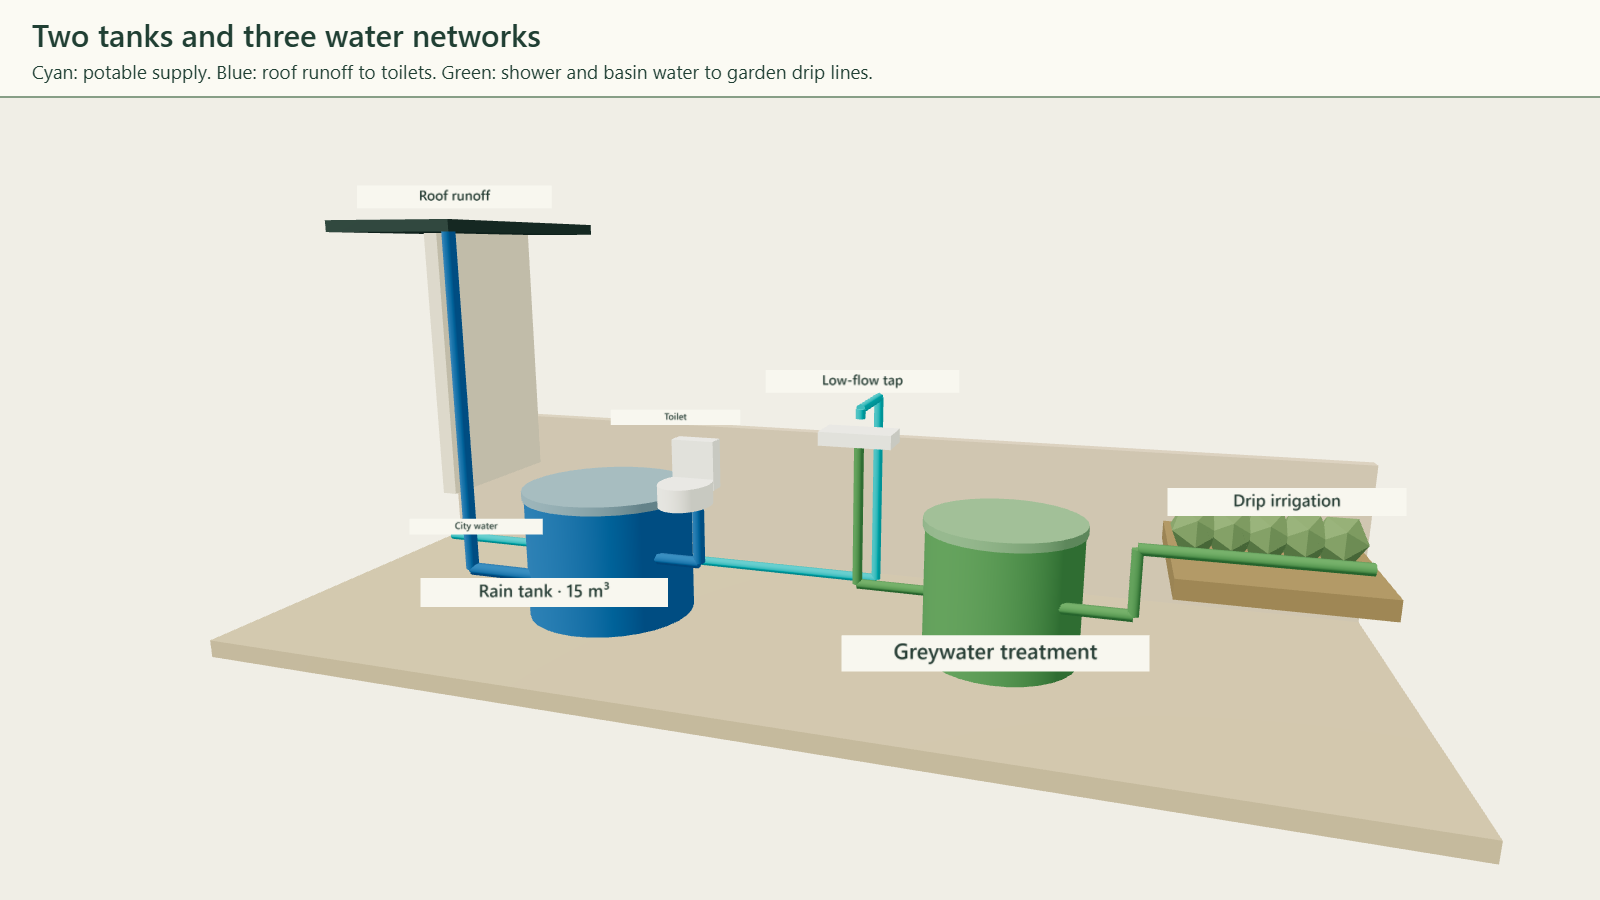
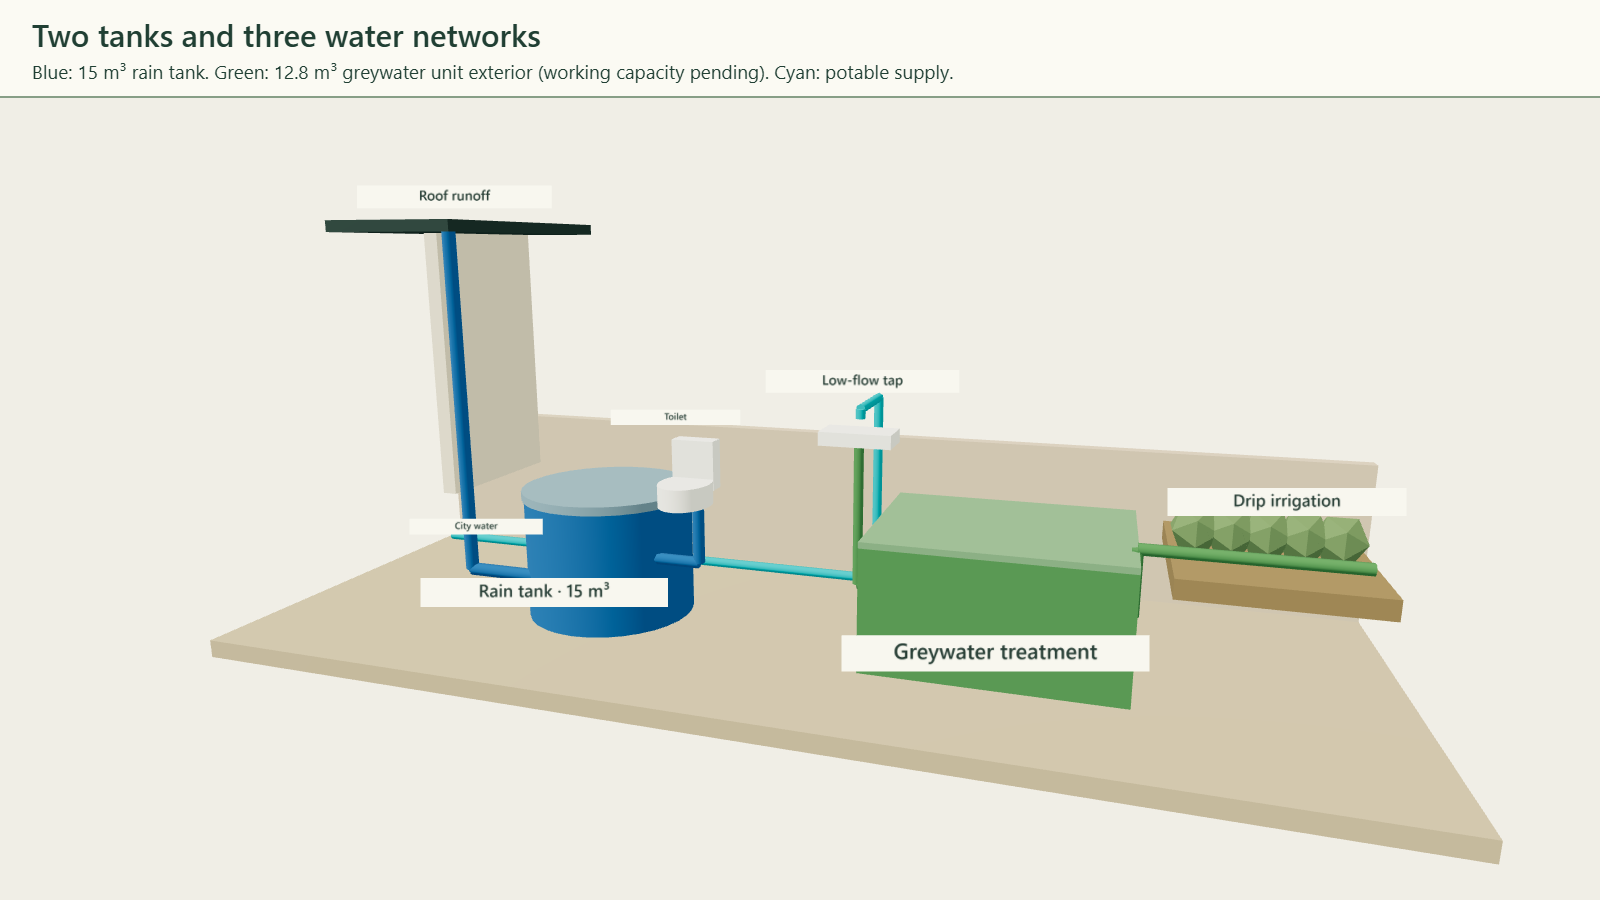
volume of greywater

Changed region(s): [[0.5312, 0.5289, 0.7188, 0.7156], [0.0, 0.0622, 0.5938, 0.0933], [0.5312, 0.7467, 0.7188, 0.8089]]

diff --git a/3d-model/engineering.js b/3d-model/engineering.js
@@ -143,8 +143,8 @@ function waterDetail(g) {
     part(g,-5.55,4.05,-.85,2.0,.16,3.75,P.dark);
     vessel(g,-2.85,-.55,.1,1.18,1.72,P.rain);
     vessel(g,-2.85,.36,.1,1.21,.12,0x7995a0);
-    vessel(g,2.75,-.56,.1,1.0,1.7,P.grey);
-    vessel(g,2.75,.34,.1,1.03,.12,0x739a72);
+    part(g,2.75,-.56,.1,3.2,1.6,2.5,P.grey);
+    part(g,2.75,.28,.1,3.2,.08,2.5,0x739a72);
     path3(g,[[-4.66,4.12,.88],[-4.66,-.76,.88],[-2.85,-.76,.88]],P.rain,.09);
     path3(g,[[-2.85,-.40,.65],[-1.22,-.40,.65],[-1.22,.85,.65]],P.rain,.08);
     // WC, washbasin and tap shown above the cut.
@@ -300,7 +300,7 @@ function setEngineeringMode(mode,option) {
         break;
     case 'water':
         mountEngineeringView(mode,waterDetail);
-        explanation='Separate underground tanks serve toilets and garden drip lines. The assumed annual reuse is 85 m³ of rainwater and 250 m³ of greywater. Buried locations and routes are illustrative.';break;
+        explanation='The rain tank stores 15 m³ for toilets. The greywater unit measures 3.2 × 2.5 × 1.6 m externally in the model (12.8 m³). Its working capacity still needs sizing. Estimated reuse is 85 m³/year for toilets and 250 m³/year for irrigation.';break;
     case 'circular':
         if(variant==='building'){view='exploded';mountEngineeringView(view,explodedBuilding);}
         else mountEngineeringView(mode,g=>envelopeDetail(g,.66,'summer'));break;

diff --git a/3d-model/building.js b/3d-model/building.js
@@ -61,6 +61,8 @@ const featureData = {
         stats: [
             ["Rain tank capacity", "15,000 L"],
             ["Rainwater used", "85 m³/year"],
+            ["Greywater tank exterior", "12.8 m³ (schematic)"],
+            ["Greywater working capacity", "To be sized"],
             ["Greywater used", "250 m³/year"]
         ]
     },

diff --git a/3d-model/presentation/README.md b/3d-model/presentation/README.md
@@ -11,7 +11,7 @@ Each link opens a 1600 × 900 PNG. The source IDs below refer to the [project co
 | [Summer shading](summer-shading.png) | Green facade. The external horizontal shade intercepts a high ray. | B23 and the model’s south-window louvers. The image illustrates one bay. It does not quantify a cooling saving. |
 | [Traditional heating and cooling](heating-cooling-traditional.png) | Same-size traditional comparator. Shared gas boiler plant, tank, radiators and wet-room fan. | C01–C06, C10 and the traditional rate for C11. Room layout and service routes are illustrative. |
 | [Green heating and cooling](heating-cooling-green.png) | Green design. Solar heat enters the shared tank. The apartment detail shows natural ventilation and local extraction. | C01–C06, C10–C11 and C15. Two 100 kW boilers are a concept allowance. The plant cutaway does not establish a final room location or peak load. |
-| [Water reuse cutaway](water-system.png) | Green design. A rain tank feeds toilets, a separate greywater plant feeds irrigation, and the tap uses potable water. | C07, C19–C24 and E06. The cistern holds 15 m³. The 85 m³/year rainwater and 250 m³/year greywater figures are reuse assumptions. Tank locations and pipe routes require design verification. |
+| [Water reuse cutaway](water-system.png) | Green design. A rain tank feeds toilets, a separate greywater plant feeds irrigation, and the tap uses potable water. | C07, C19–C24 and E06. The cistern holds 15 m³. The schematic greywater unit occupies 12.8 m³ externally (3.2 × 2.5 × 1.6 m). Its working liquid capacity is unspecified. The 85 m³/year rainwater and 250 m³/year greywater figures are reuse assumptions. Tank locations and pipe routes require design verification. |
 | [Exploded facade and frame](circular-materials-exploded.png) | Green design. Separate facade layers and window units expose the retained five-storey frame. | B06, B09, B15–B20. Offsets and bay spacing illustrate component relationships. AAC partitions are masonry. |
 | [Construction sequence](construction-process.png) | Green design shown in three stages. Frame and slabs, then enclosure, then windows and solar equipment. | B06–B09, B15, B18, B26–B28 and C11. This selective erection sequence is an illustration, not a trade programme. |
 | [Solar roof layout](solar-roof-layout.png) | Green design. PV on both wings and a separate collector bank on the rear strip. | B26–B28, C11 and the scene layout. The module assumption is 60 × 500 W. Hot-water collector aperture is 20 m². |
